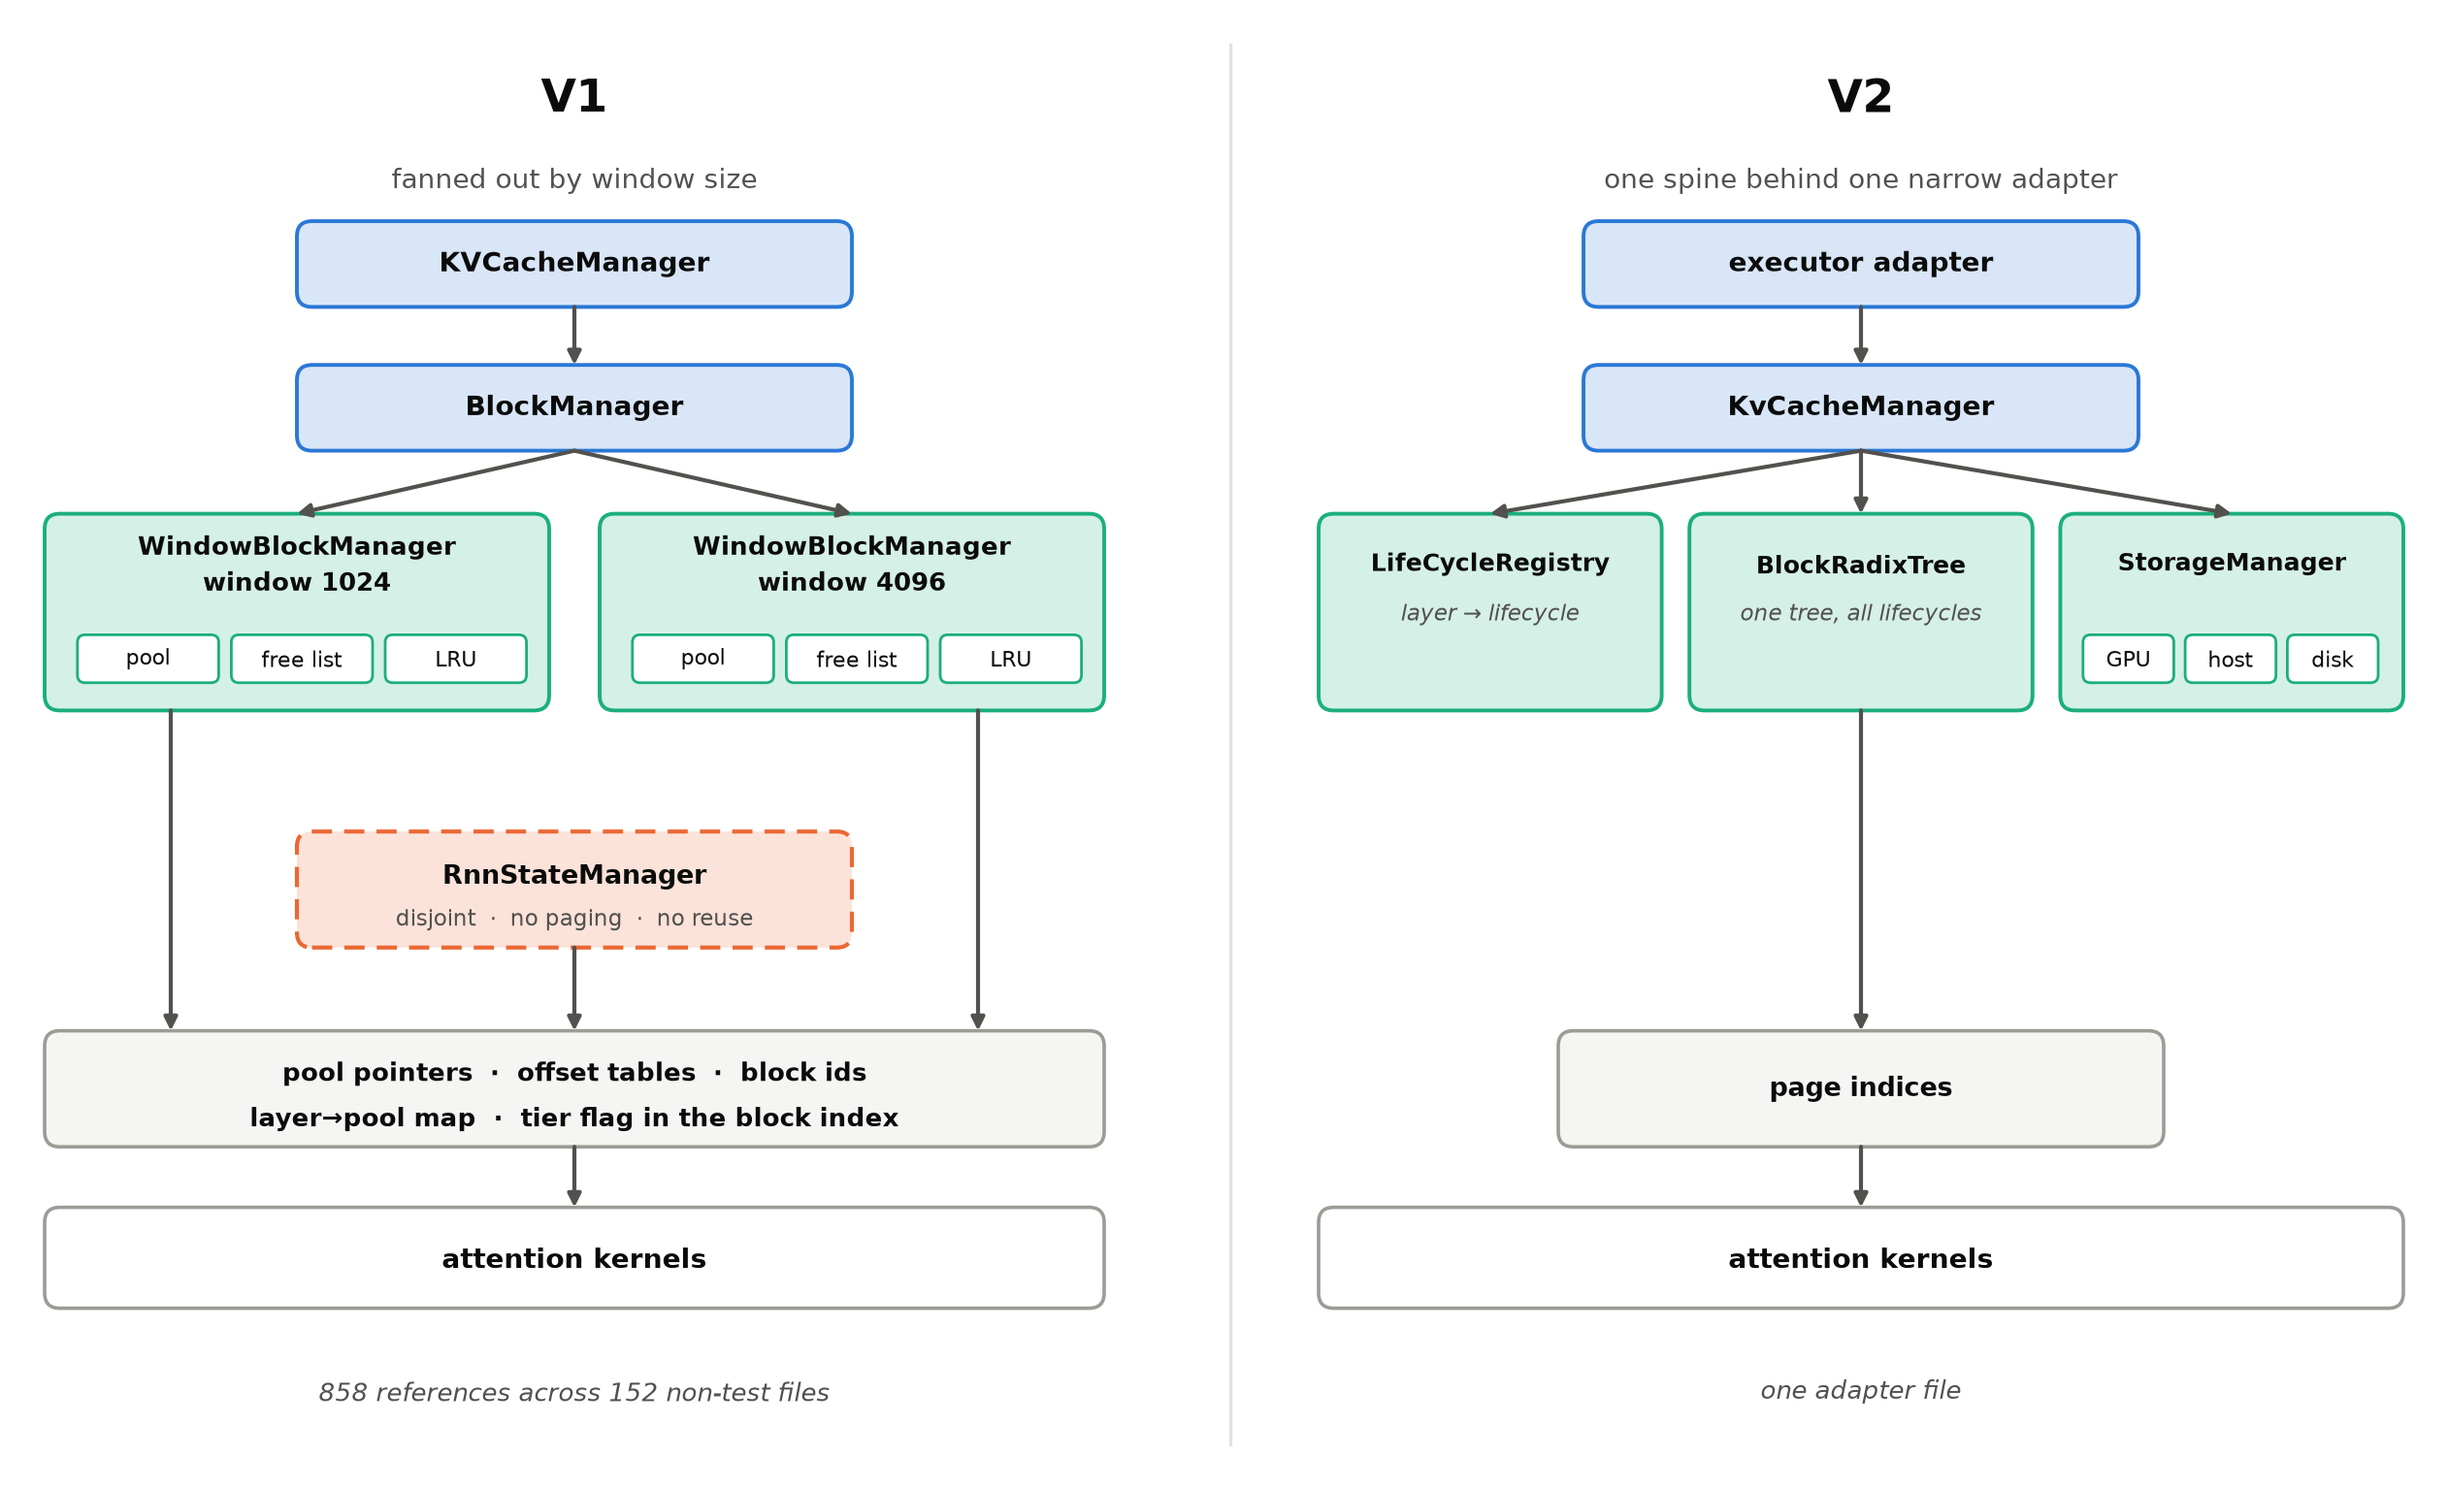
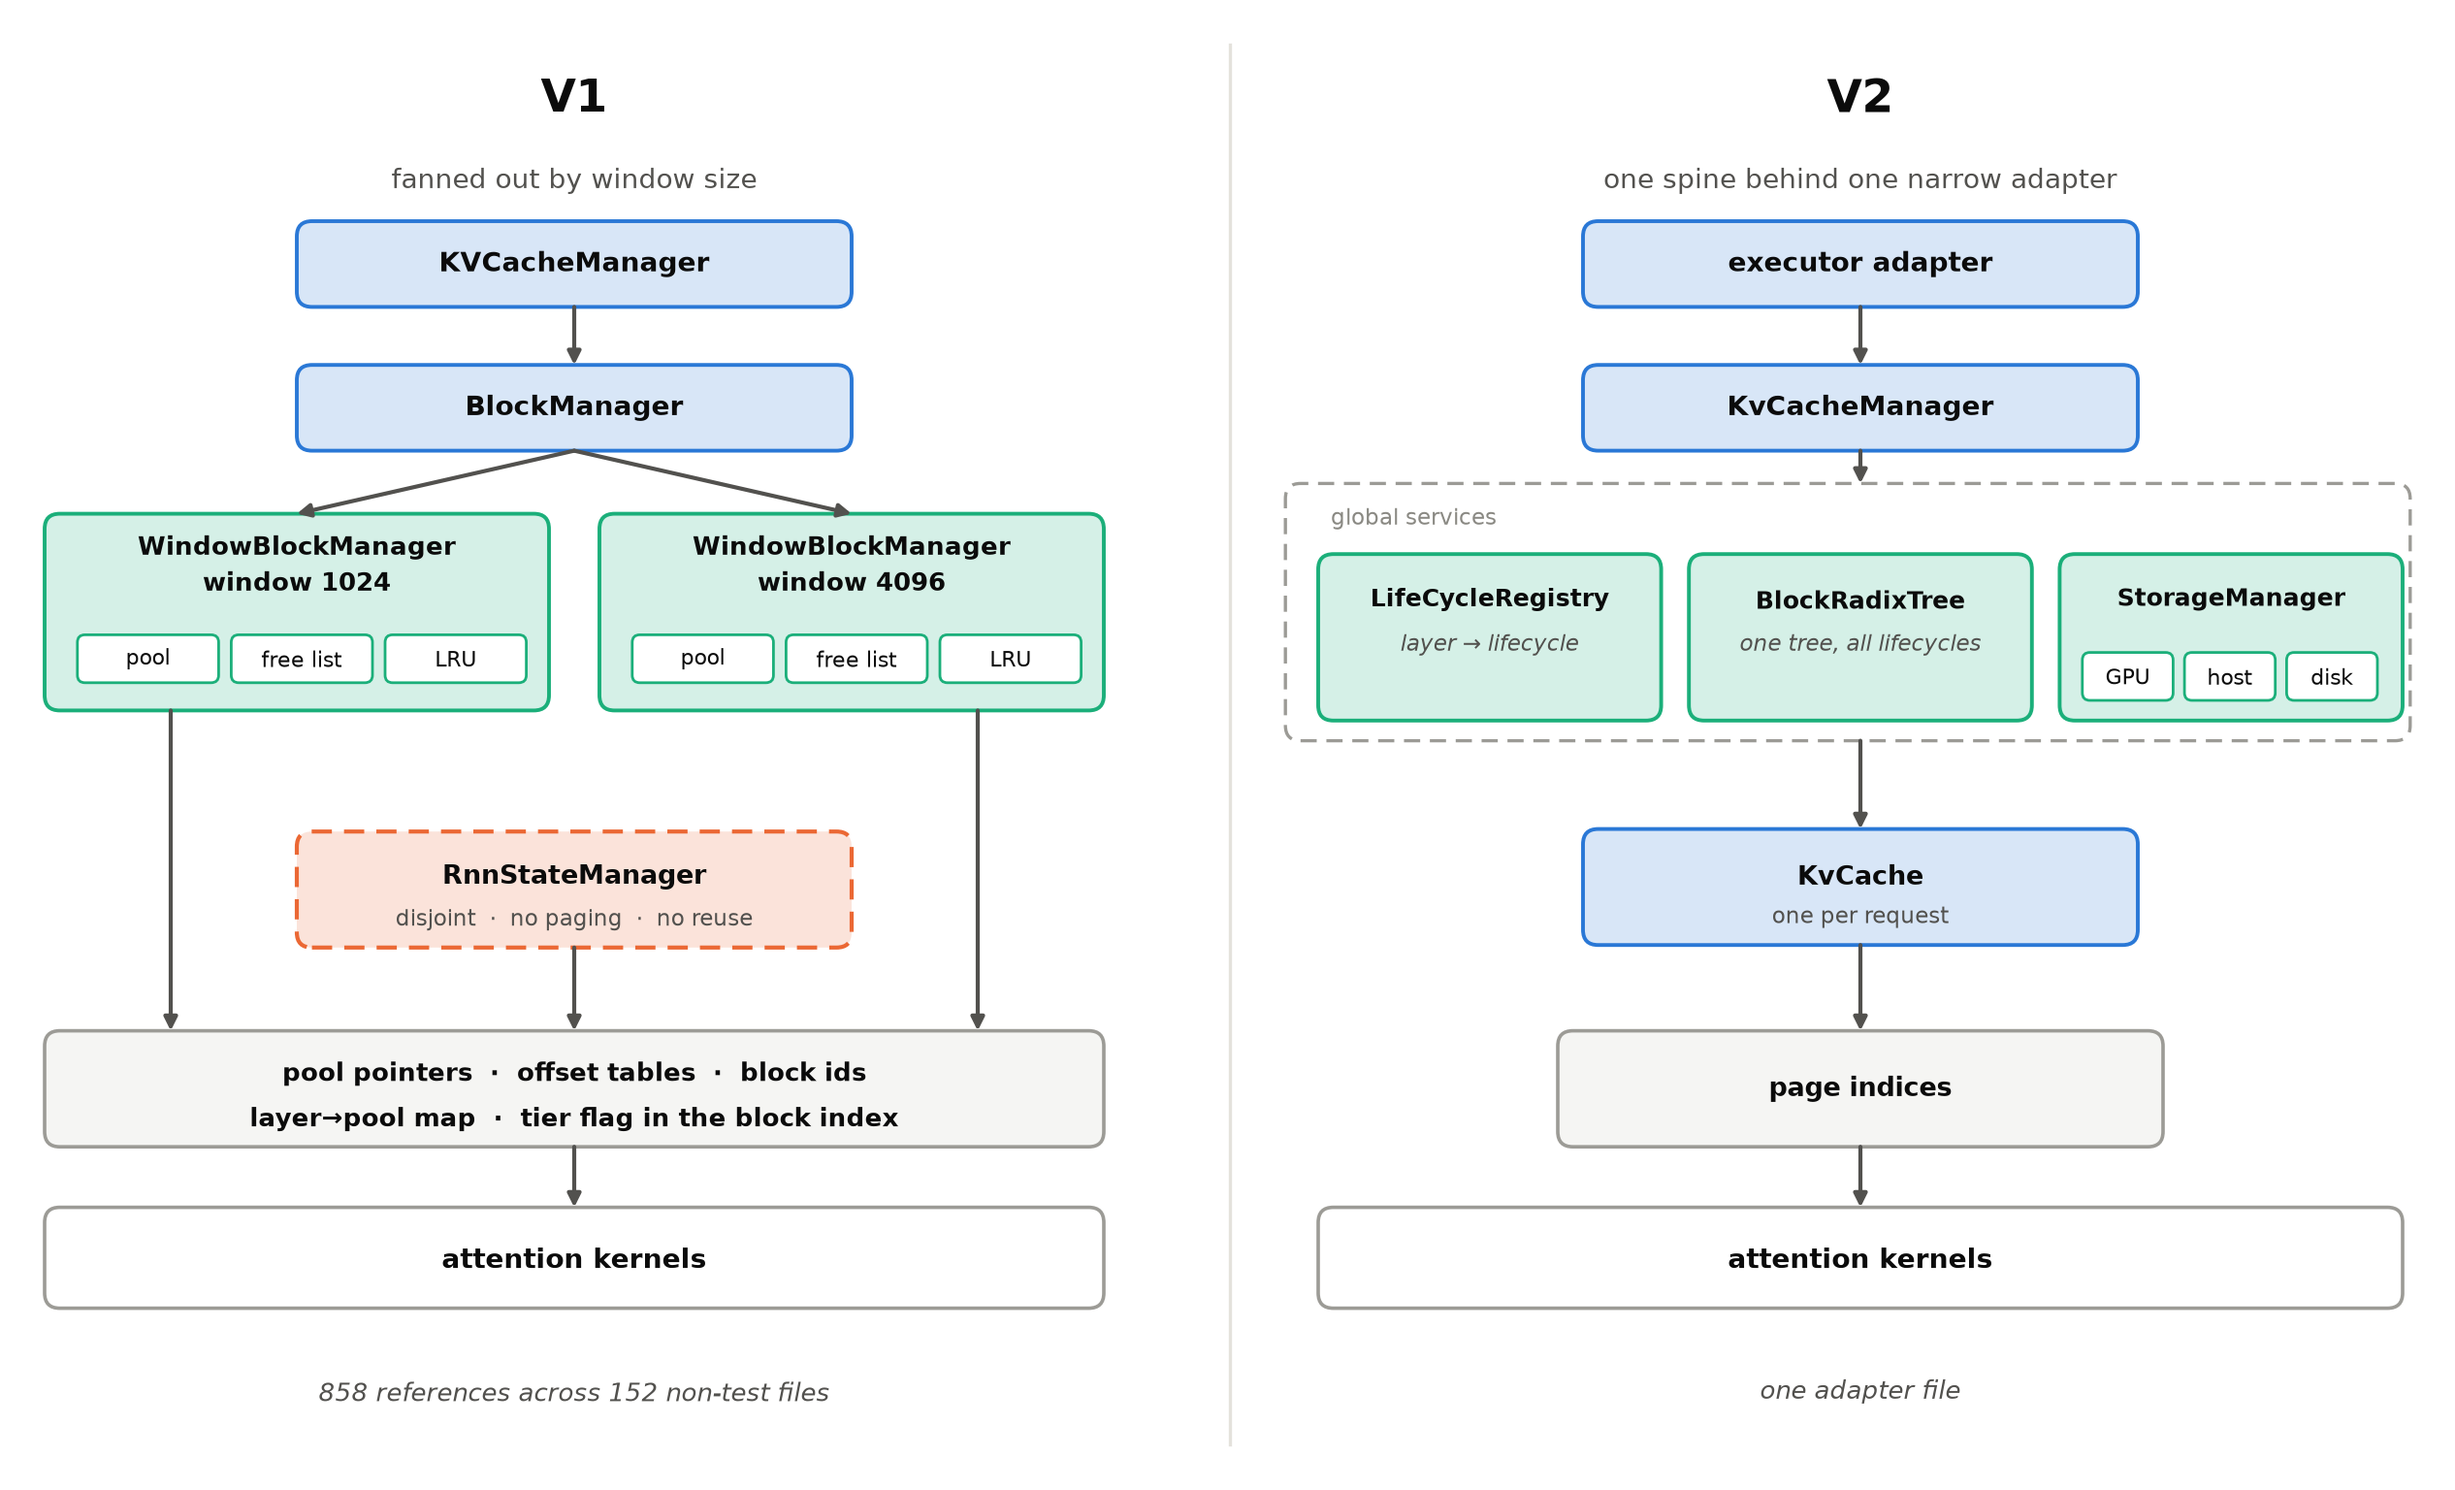
[None][doc] Put KvCache in the V2 architecture figure
Page indices come from KvCache, the per-request object created by
KvCacheManager, not from BlockRadixTree. The figure now shows the manager
owning LifeCycleRegistry, BlockRadixTree and StorageManager as global
services, and creating one KvCache per request, which is what yields page
indices to the attention kernels.

diff --git a/docs/source/blogs/tech_blog/blog31_KVCacheManagerV2_Redesigning_KV_Cache_Management_in_TensorRT-LLM.md b/docs/source/blogs/tech_blog/blog31_KVCacheManagerV2_Redesigning_KV_Cache_Management_in_TensorRT-LLM.md
@@ -98,8 +98,9 @@ The storage tier count is encoded in the sign bit of the 32-bit block index that
 <!-- FIGURE BRIEF (not rendered) — Fig 1: Side-by-side block diagram. Left, V1: fans out into one
 WindowBlockManager per window size, each with its own pool, free list and eviction policy, alongside a
 disjoint RnnStateManager; show raw pool pointers and offset tables reaching directly into attention
-kernels. Right, V2: one LifeCycleRegistry, one BlockRadixTree and one StorageManager spanning GPU, host
-and disk, behind a single narrow adapter. -->
+kernels. Right, V2: one KvCacheManager owning the global services -- LifeCycleRegistry, BlockRadixTree
+and a StorageManager spanning GPU, host and disk -- and creating one KvCache per request, which is what
+yields page indices to the kernels. -->
 
 
 ## KVCacheManagerV2 Design
